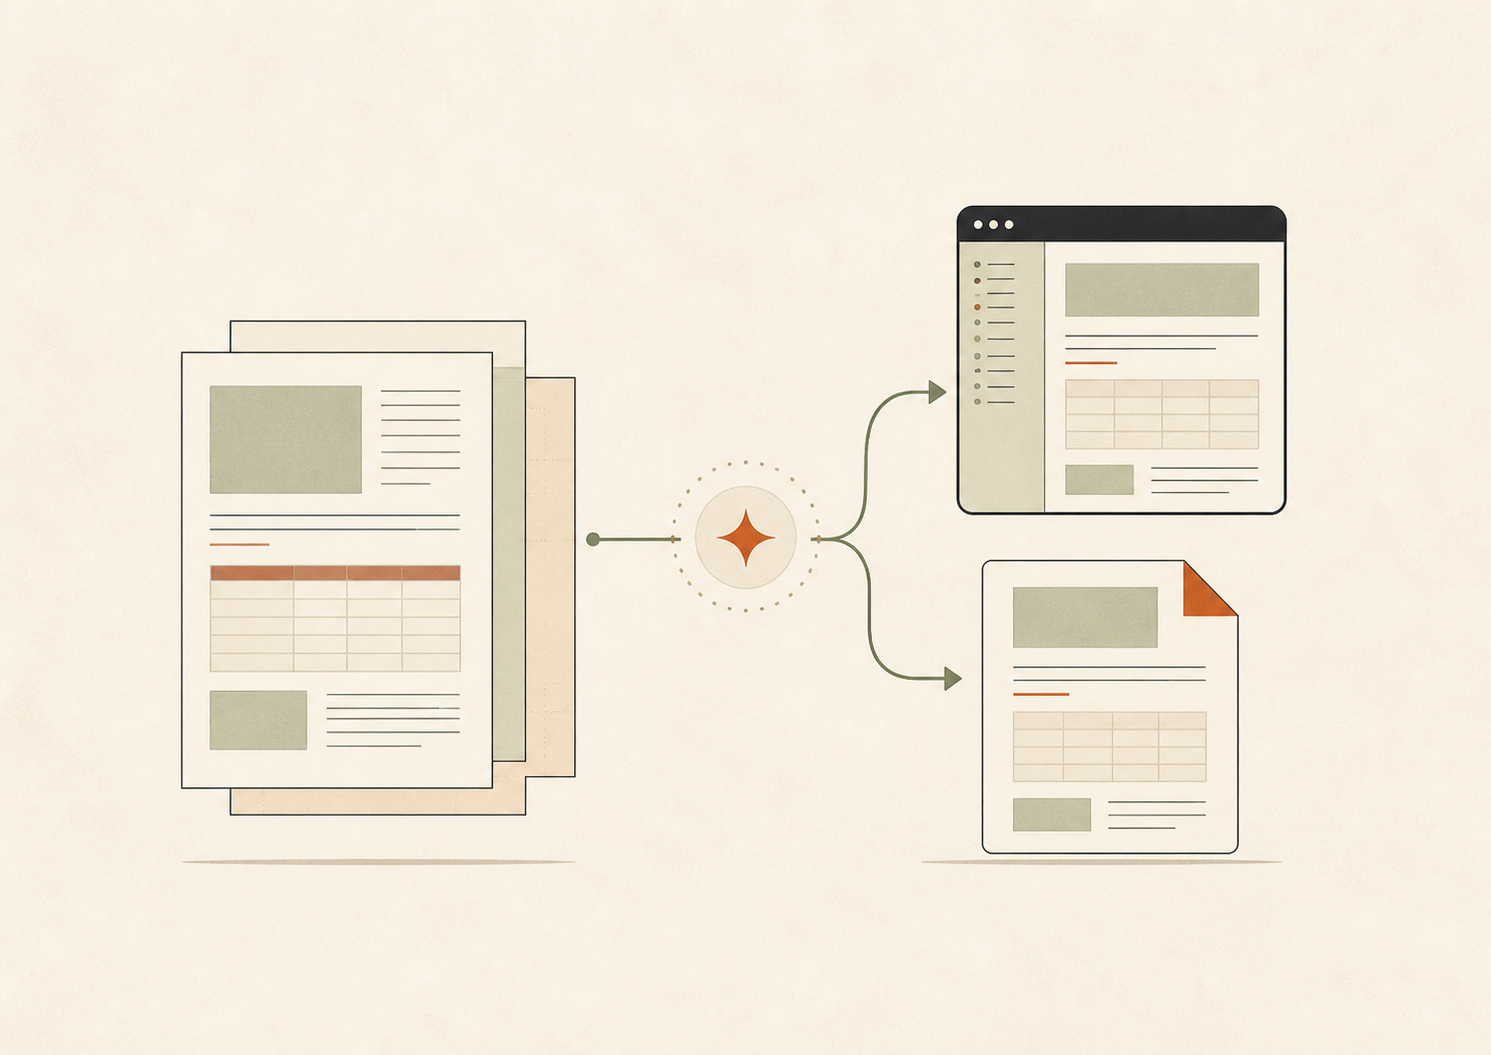
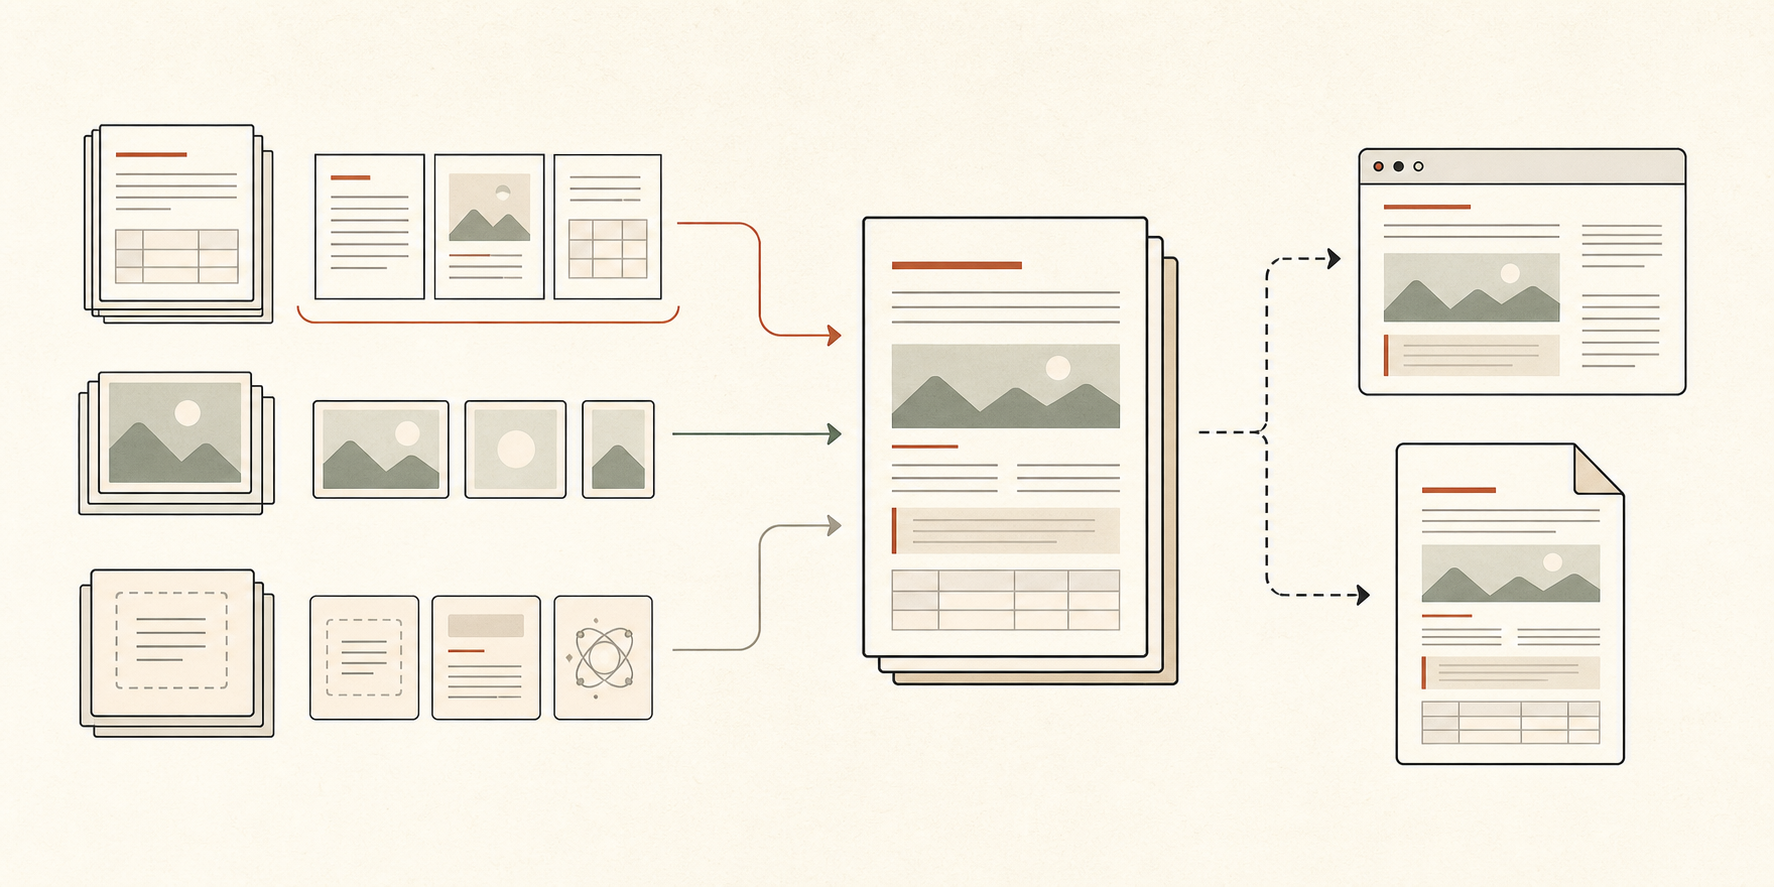
[doc] Dogfood: adopt captionNumbering + Toc maxLevel + refresh chapter 01
- document/index.tsx: switch Toc to `maxLevel={2}` (cleaner outline for the
  user-story book) and add `captionNumbering: { figure: "圖", table: "表" }`
  so 圖/表 captions match the Chinese-language voice of the dogfood.
- document/chapters/01-start: minor prose tweaks to align with the new
  Press Tree vocabulary in the running narrative.
- document/components/OpenPressVisionFigure: small markup update to pair
  with the refreshed hero PNG.
- document/media/concept-openpress-vision.png: regenerated vision diagram.

Changed region(s): [[0.0309, 0.1218, 0.9564, 0.8828]]

diff --git a/document/index.tsx b/document/index.tsx
@@ -15,6 +15,10 @@ export const config: Manifest = {
   componentsDir: "components",
   publicDir: "public/openpress",
   outputDir: "dist-react",
+  captionNumbering: {
+    figure: "圖",
+    table: "表",
+  },
   pdf: {
     filename: "openpress-user-story-book.pdf",
   },
@@ -89,7 +93,7 @@ export default function UserStoryPress() {
   return (
     <Press>
       <Cover />
-      <Toc source="story" />
+      <Toc source="story" maxLevel={2} />
       <Sections source="story" page={Page} />
       <BackCover />
     </Press>

diff --git a/document/components/OpenPressVisionFigure/index.tsx b/document/components/OpenPressVisionFigure/index.tsx
@@ -7,9 +7,9 @@ export default function OpenPressVisionFigure() {
     >
       <img
         src="/openpress/media/concept-openpress-vision.png"
-        alt="OpenPress vision: one document source producing a web reader and PDF output"
+        alt="OpenPress vision: document pages, media assets, and React components compose into one document, then publish to web reader and PDF"
       />
-      <figcaption>OpenPress 的願景：讓同一份可維護的文件 source，穩定產生 web reader 與 PDF 交付物。</figcaption>
+      <figcaption>OpenPress 的願景：文件內容、Media 與 React component 共同組成一份可維護的文件，再穩定產生 web reader 與 PDF。</figcaption>
     </figure>
   );
 }